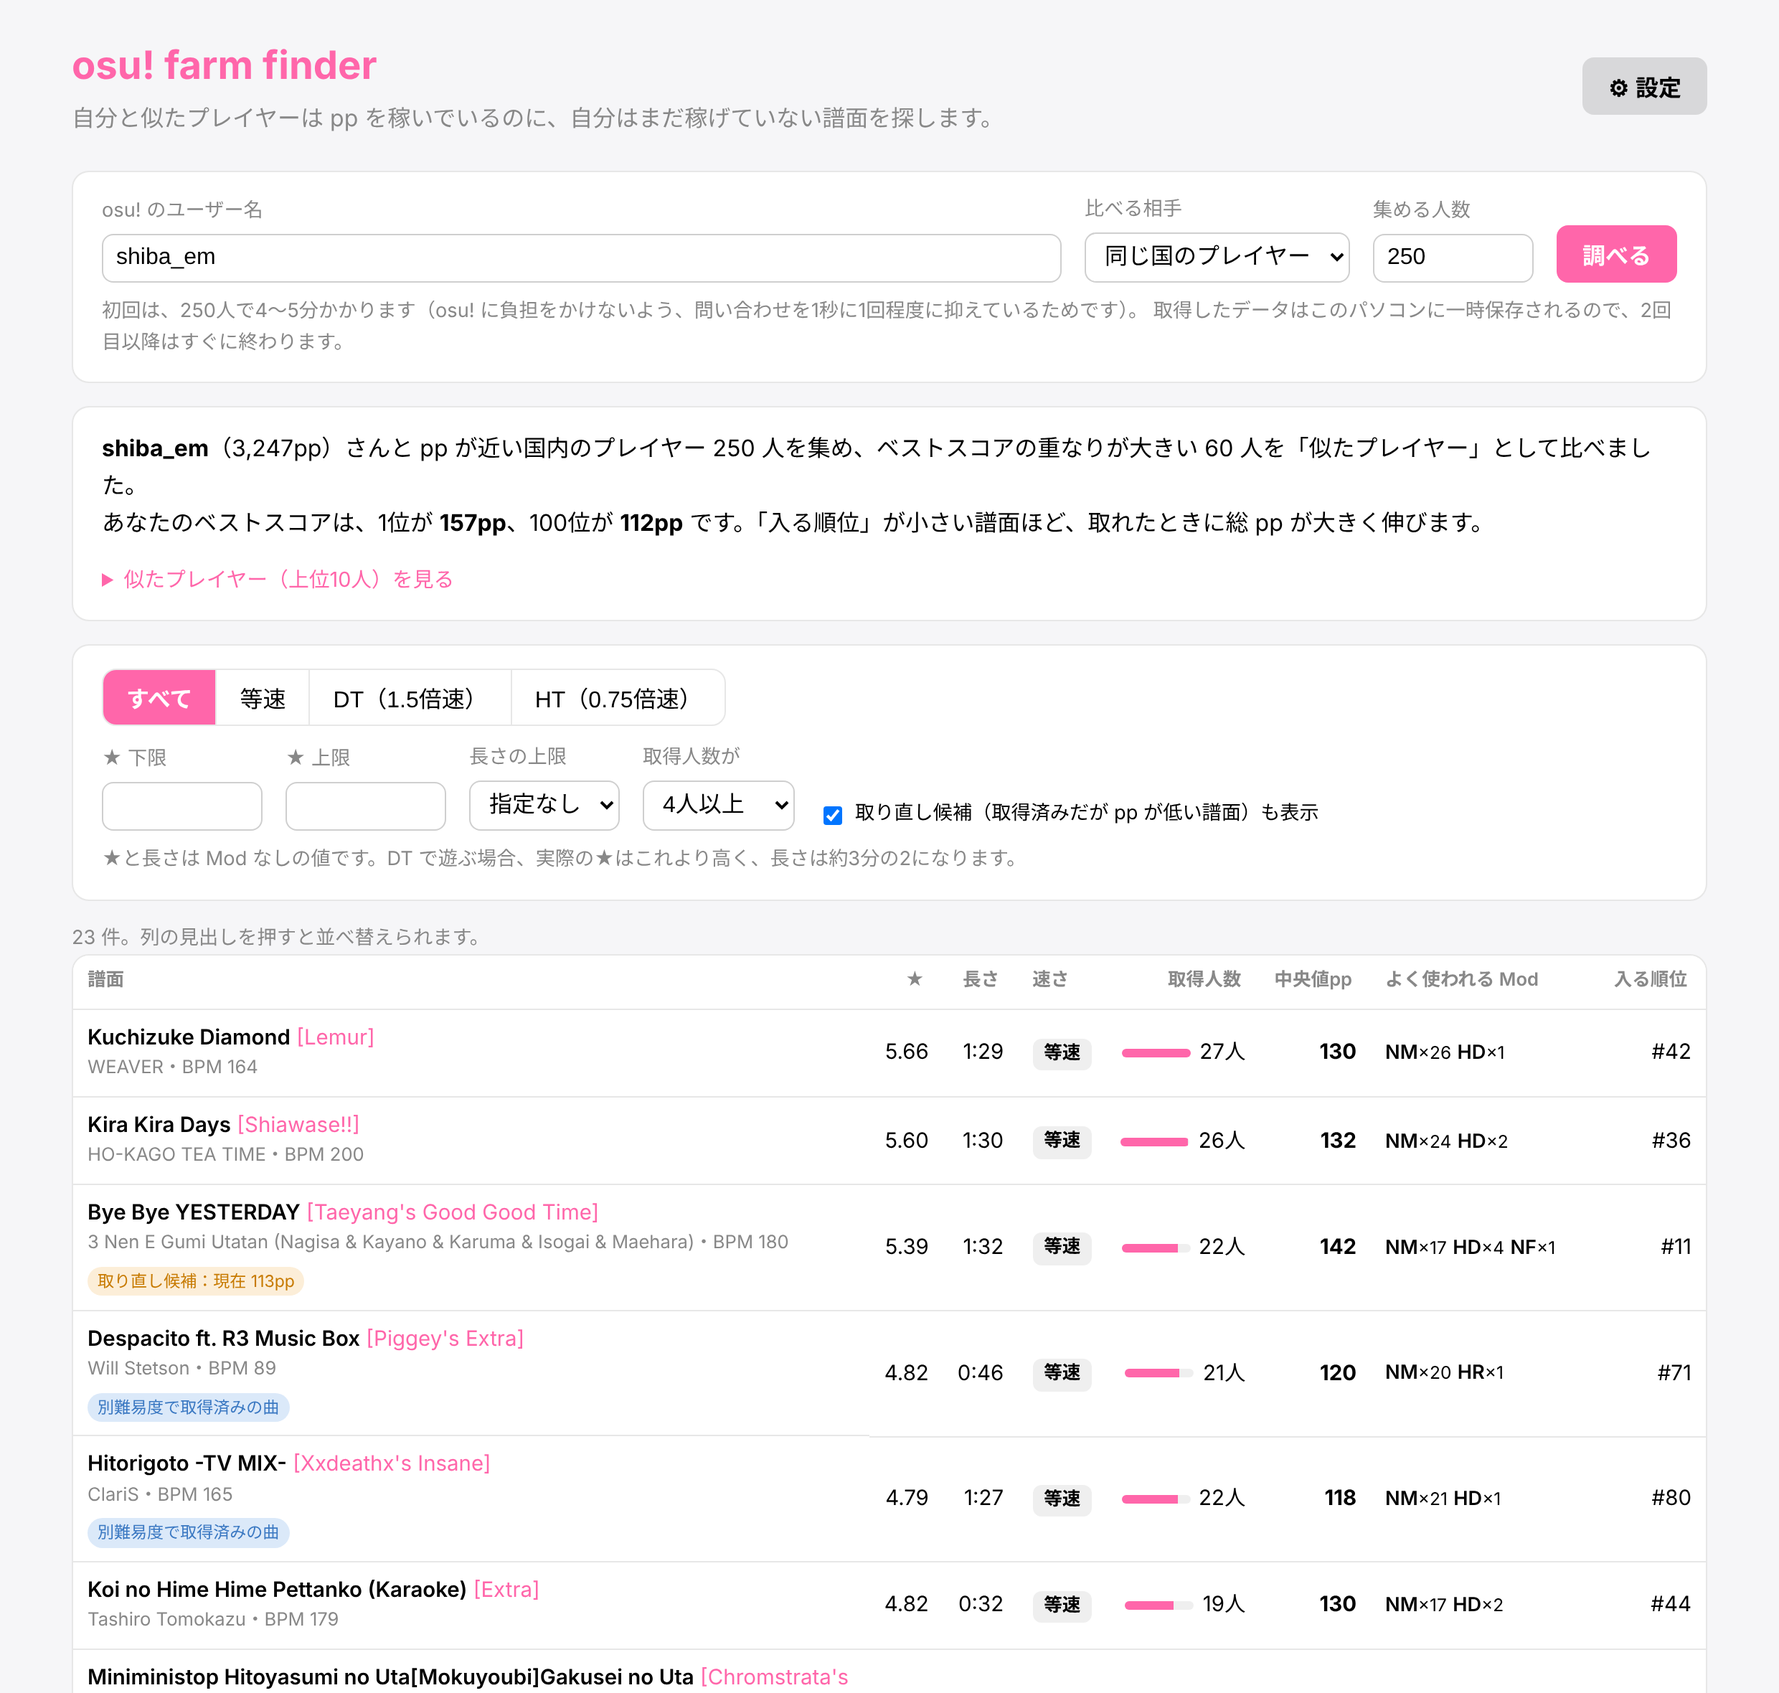
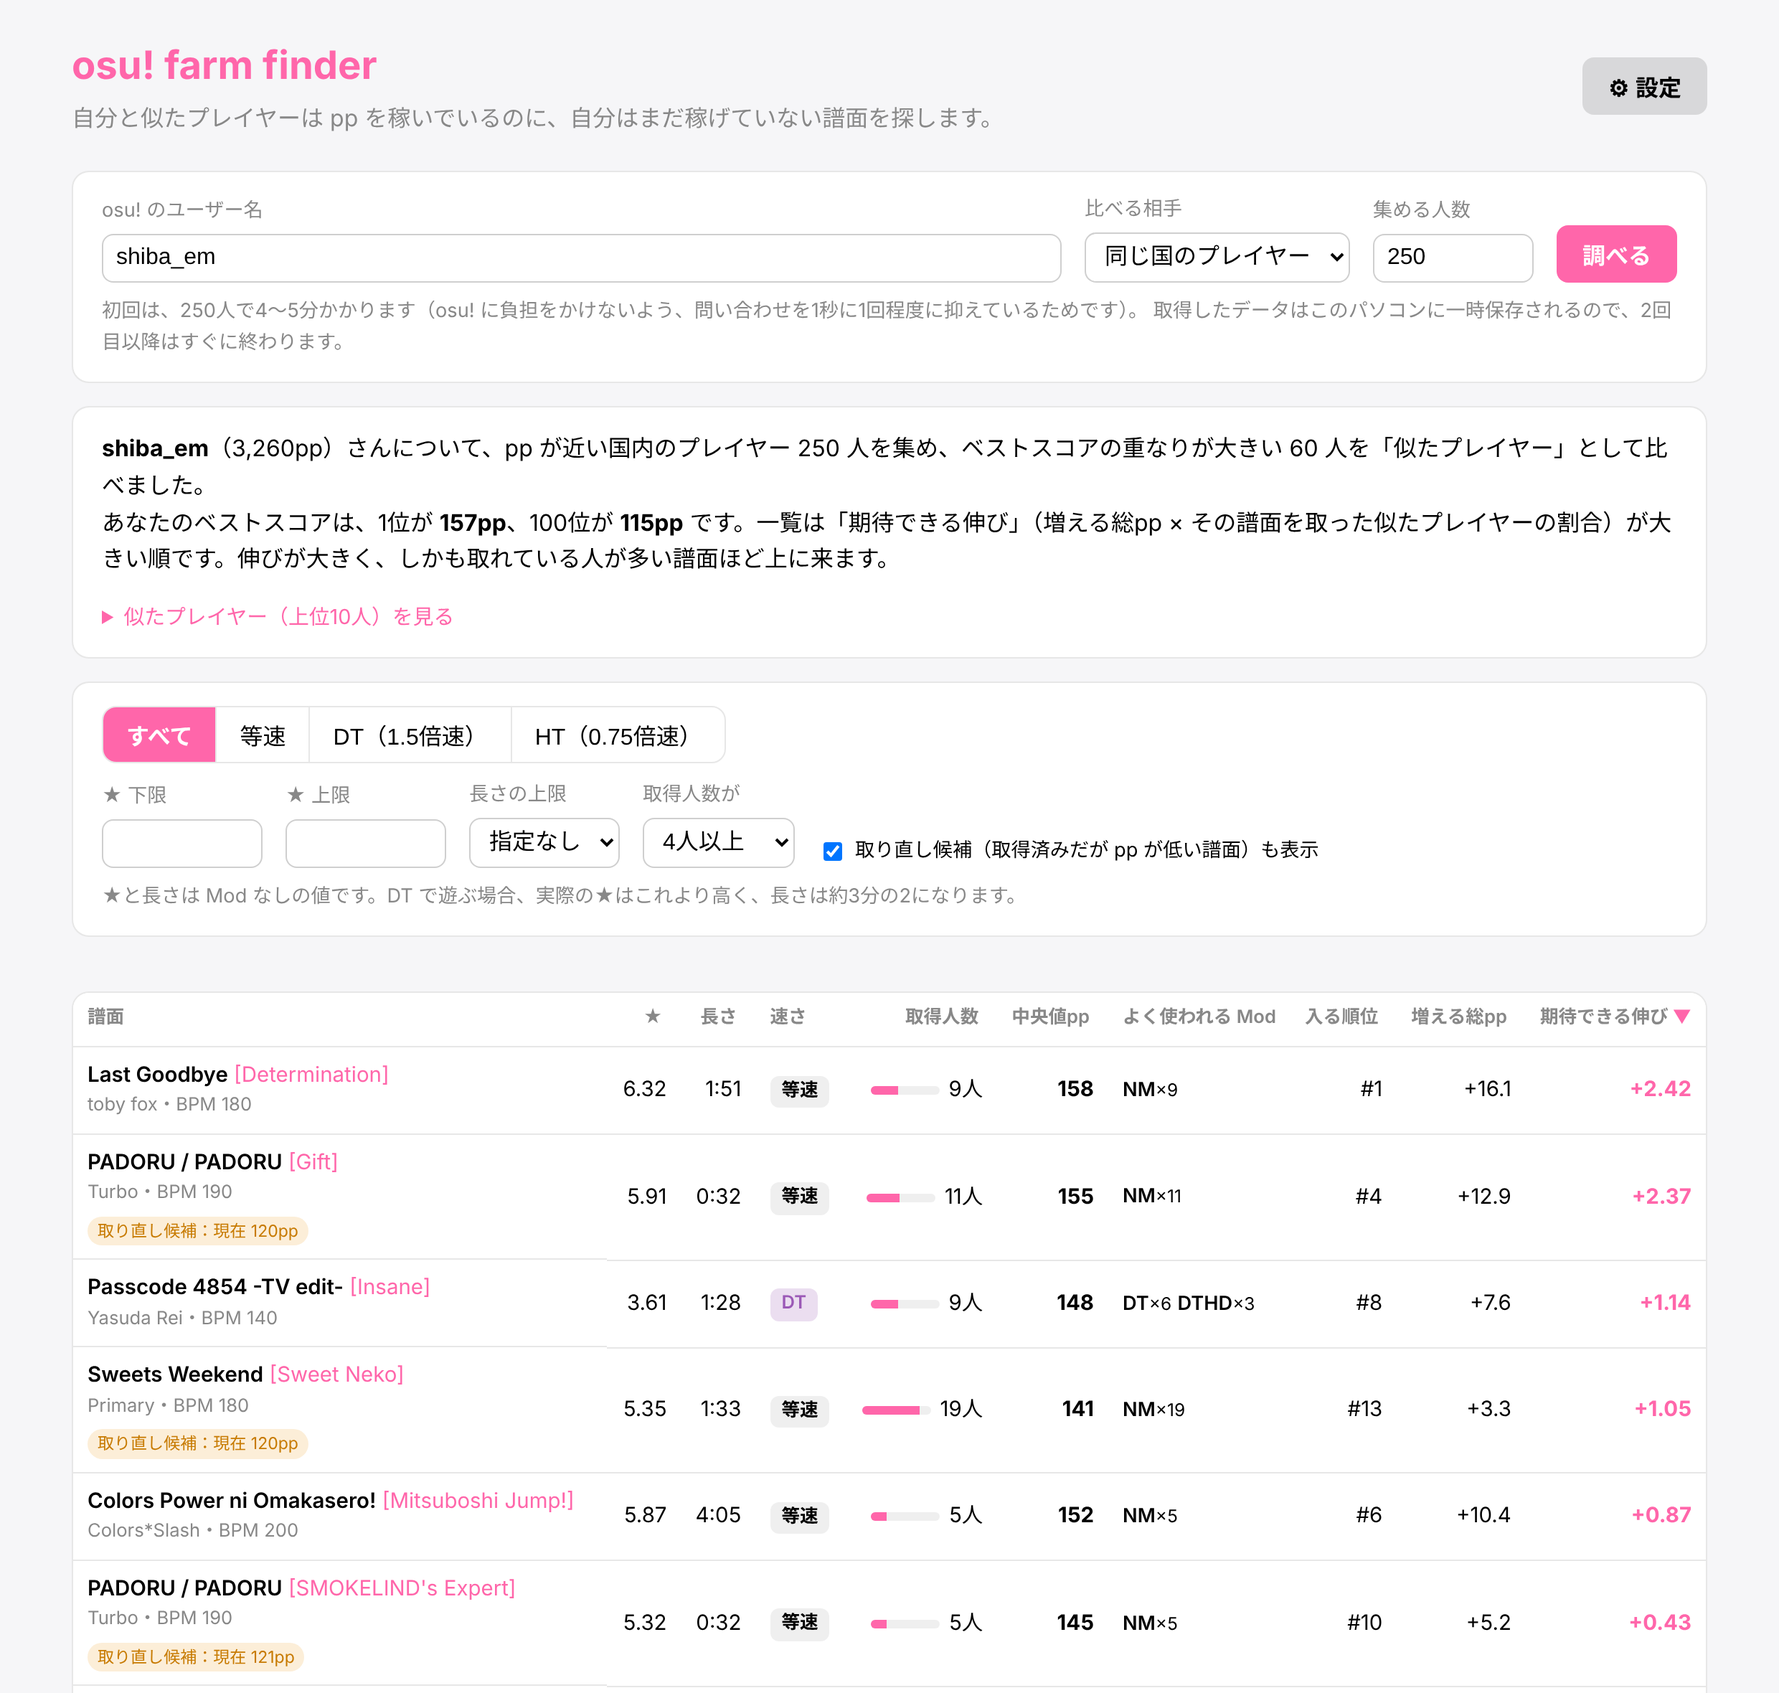
Sort by expected gain by default; refresh README screenshots (v1.3.0)
- New column "期待できる伸び" = total pp gain x share of similar players who have the map
- Server and UI order by it, so rewarding maps that many similar players got come first
  (sorting by total pp gain alone put high-star maps taken by 4-6 players on top)
- README (ja/en): column, ordering rationale, calculation step 6
- Screenshots retaken from real results with the current UI, plus an example
  for a player outside the top 10,000 (cover art hidden)

Claude-Session: https://claude.ai/code/session_012FumVQYeYHSiu8hT15C24j

diff --git a/public/app.js b/public/app.js
@@ -172,7 +172,8 @@ $('#search-form').addEventListener('submit', async (e) => {
 $('#search-cancel').addEventListener('click', () => jobId && api('DELETE', `/api/jobs/${jobId}`));
 
 // ---------- results ----------
-const filters = { speed: 'all', sort: null, sortDir: -1 };
+// Default order: the server's order (largest expected gain first).
+const filters = { speed: 'all', sort: 'expectedGain', sortDir: -1 };
 let lastResult = null;
 
 function currentQuery() {
@@ -212,7 +213,7 @@ function renderResults() {
     `<strong>${esc(r.me.username)}</strong>（${fmtPp(r.me.pp)}pp）さんについて、${where}を集め、` +
     `ベストスコアの重なりが大きい ${r.usedPlayers} 人を「似たプレイヤー」として比べました。<br>` +
     `あなたのベストスコアは、1位が <strong>${r.myTop1Pp}pp</strong>、100位が <strong>${r.myTop100Pp}pp</strong> です。` +
-    `「増える総pp」は、似たプレイヤーの中央値と同じ pp を取れた場合に、あなたの総 pp が増える量の目安です。` +
+    `一覧は「期待できる伸び」（増える総pp × その譜面を取った似たプレイヤーの割合）が大きい順です。伸びが大きく、しかも取れている人が多い譜面ほど上に来ます。` +
     note;
 
   $('#similar-list').innerHTML = r.similarPlayers
@@ -258,7 +259,8 @@ function renderResults() {
         <td class="num" title="最小 ${x.minPp}pp ～ 最大 ${x.maxPp}pp"><strong>${x.medianPp}</strong></td>
         <td>${mods}</td>
         <td class="num">#${x.rankIfAdded}</td>
-        <td class="num gain"><strong>+${x.ppGain.toFixed(1)}</strong></td>
+        <td class="num">+${x.ppGain.toFixed(1)}</td>
+        <td class="num gain"><strong>+${x.expectedGain.toFixed(2)}</strong></td>
       </tr>`;
     })
     .join('');

diff --git a/test/recommend.test.js b/test/recommend.test.js
@@ -106,3 +106,28 @@ test('rows carry ppGain, and new maps gain more than retakes of the same pp', ()
   const fresh = totalPpGain(data().myBest)(999, m400.medianPp);
   assert.ok(m400.ppGain < fresh, 'replacing my 90pp score gains less than a brand-new map');
 });
+
+test('expectedGain = ppGain × share of similar players, and rows are ordered by it', () => {
+  const r = recommend(data(), { minPlayers: 3 });
+  for (const x of r.rows) {
+    // ppGain is shown rounded to 0.1 while expectedGain uses the unrounded value, so allow that much.
+    assert.ok(Math.abs(x.expectedGain - (x.ppGain * x.players) / r.usedPlayers) <= (0.05 * x.players) / r.usedPlayers + 0.01, `${x.beatmapId}: ${x.expectedGain} vs ${x.ppGain}×${x.players}/${r.usedPlayers}`);
+  }
+  for (let i = 1; i < r.rows.length; i++) assert.ok(r.rows[i - 1].expectedGain >= r.rows[i].expectedGain);
+});
+
+test('a rewarding map taken by few players ranks below a decent map taken by many', () => {
+  // me: a few top scores; 10 similar players all share map 1 with me.
+  const myBest = [sc(1, 100), sc(2, 90), sc(3, 80)];
+  const neighbors = Array.from({ length: 10 }, (_, i) => ({
+    id: 100 + i, username: 'n' + i, pp: 1000,
+    best: [sc(1, 100), sc(50, 95)] // everyone has map 50 at 95pp
+      .concat(i < 3 ? [sc(60, 150)] : []), // only 3 players have map 60 at 150pp
+  }));
+  const r = recommend({ me: { id: 1 }, scope: 'country', myBest, neighbors }, { minPlayers: 3 });
+  const m50 = r.rows.find((x) => x.beatmapId === 50);
+  const m60 = r.rows.find((x) => x.beatmapId === 60);
+  assert.ok(m60.ppGain > m50.ppGain, 'map 60 would add more pp if you got it');
+  assert.ok(m50.expectedGain > m60.expectedGain, 'but map 50 is more likely');
+  assert.equal(r.rows[0].beatmapId, 50);
+});

diff --git a/src/recommend.js b/src/recommend.js
@@ -9,6 +9,8 @@
 //    DT/NC (1.5x) and HT (0.75x), because speed changes pp a lot.
 // 4. Drop maps you already have unless your pp there is clearly lower than theirs.
 // 5. Estimate how much your total pp would rise if you matched their median pp.
+// 6. Expected gain = that rise × the share of similar players who have the map, so maps that
+//    are both rewarding and within reach come first.
 
 export const DEFAULTS = {
   similarPlayers: 60, // how many of the most similar players to use
@@ -166,9 +168,11 @@ export function recommend(data, opts = {}) {
       sameSongInMyBest: !myMaps.has(m.beatmapId) && mySets.has(m.beatmapsetId),
       rankIfAdded: rankIfAdded(medianPp), // where the median pp would land in your top scores
       ppGain: Math.round(gainFor(m.beatmapId, medianPp) * 10) / 10, // how much your total pp would rise
+      // rise × share of similar players who have this map (a rough "how likely you can get it")
+      expectedGain: Math.round(((gainFor(m.beatmapId, medianPp) * g.players) / similar.length) * 100) / 100,
     });
   }
-  rows.sort((a, b) => b.score - a.score || b.medianPp - a.medianPp);
+  rows.sort((a, b) => b.expectedGain - a.expectedGain || b.score - a.score || b.medianPp - a.medianPp);
 
   return {
     me: data.me,

diff --git a/public/index.html b/public/index.html
@@ -114,6 +114,7 @@
               <th>よく使われる Mod</th>
               <th data-sort="rankIfAdded" class="num sortable" title="中央値と同じ pp を取れた場合に、あなたのベストスコアの何位に入るか">入る順位</th>
               <th data-sort="ppGain" class="num sortable" title="中央値と同じ pp を取れた場合に、あなたの総 pp がどれだけ増えるかの目安（ベストスコアの重み付けを反映）">増える総pp</th>
+              <th data-sort="expectedGain" class="num sortable" title="増える総pp ×（この譜面を取った似たプレイヤーの割合）。伸びの大きさと、取れそうかどうかの両方を表す目安">期待できる伸び</th>
             </tr>
           </thead>
           <tbody></tbody>

diff --git a/README.md b/README.md
@@ -126,6 +126,10 @@ osu! の API で取得できるランキングは、上位1万位までです。
 
 この場合、比べる相手はほかの国のプレイヤーになります。一覧の上の説明に、どの国から何人集めたかが表示されます。かかる時間は、通常とほぼ同じです。
 
+次の画像は、国内順位が約3万7千位（約1,100pp）のプレイヤーを調べた例です。トルコ・スペイン・韓国・ペルー・イタリアのランキングから、50人ずつ集めています。
+
+![ランキングの範囲外のプレイヤーを調べた例](docs/images/results-countries.png)
+
 ### 4. 一覧を絞り込む・並べ替える
 
 | 操作 | 内容 |
@@ -135,7 +139,7 @@ osu! の API で取得できるランキングは、上位1万位までです。
 | 「長さの上限」 | 曲の長さ（Mod なしの値）で絞り込みます。 |
 | 「取得人数が○人以上」 | 似たプレイヤーのうち何人以上が取っている譜面を出すかを変えます。人数を増やすほど、確実性の高い譜面に絞られます。 |
 | 「取り直し候補も表示」 | チェックを外すと、すでにあなたのベストスコアに入っている譜面を一覧から除きます。 |
-| 列の見出し（★・長さ・取得人数・中央値pp・入る順位・増える総pp） | 押すと、その列で並べ替えます。もう一度押すと、並び順が逆になります。 |
+| 列の見出し（★・長さ・取得人数・中央値pp・入る順位・増える総pp・期待できる伸び） | 押すと、その列で並べ替えます。もう一度押すと、並び順が逆になります。 |
 
 次の画像は、「DT（1.5倍速）」で絞り込んだ例です。
 
@@ -154,8 +158,11 @@ osu! の API で取得できるランキングは、上位1万位までです。
 | よく使われるMod | その人たちが使った Mod の組み合わせと人数です（NM は Mod なし）。 |
 | 入る順位 | 中央値と同じ pp を取れた場合に、あなたのベストスコアの何位に入るかの目安です。 |
 | 増える総pp | 中央値と同じ pp を取れた場合に、あなたの総 pp がどれだけ増えるかの目安です。計算方法は、下の「計算の方法」の5を参照してください。「入る順位」が同じでも、取り直し候補では今のスコアと置き換わるため、新しい譜面より増える量が少なくなります。 |
+| 期待できる伸び | 「増える総pp」に、似たプレイヤーのうちこの譜面を取った人の割合（取得人数 ÷ 似たプレイヤーの人数）を掛けた値です。伸びの大きさと、取れそうかどうかの両方を表す目安です。 |
 
-一覧は、似たプレイヤーの中でも、よりあなたに似ている人に多く取られている譜面ほど上に来るように並べています。
+一覧は、最初は「期待できる伸び」が大きい順に並んでいます。取れたときの伸びが大きく、しかも似たプレイヤーの多くが取れている譜面ほど上に来ます。
+
+「増える総pp」だけで並べないのは、取得人数が少なく★の高い譜面が上に来やすいためです。そうした譜面は、似たプレイヤーのうち数人だけが高い pp を取れたもので、実際に取れる見込みは高くありません。伸びの大きさを優先して見たい場合は、「増える総pp」の見出しを押して並べ替えてください。
 
 #### 計算の方法
 
@@ -164,6 +171,7 @@ osu! の API で取得できるランキングは、上位1万位までです。
 3. 似たプレイヤーのベストスコアに入っている譜面を、速さ（等速・DT・HT）ごとに数えます。4人以上（絞り込みで変更可能）が取っている譜面を一覧に出します。
 4. すでにあなたのベストスコアに入っている譜面は、あなたの pp が似たプレイヤーの中央値の85%未満の場合だけ、「取り直し候補」として残します。
 5. 「増える総pp」は、osu! の総 pp と同じ考え方で計算します。osu! の総 pp は、ベストスコアを pp の高い順に並べ、1位はそのまま、2位は0.95倍、3位は0.95×0.95倍…と、順位が1つ下がるごとに0.95倍した値を合計したものです。中央値と同じ pp のスコアをベストスコアに加えた場合と、加えない場合の合計の差を表示します。osu! では1つの譜面につき最も高いスコアだけが数えられるため、すでにその譜面のスコアがある場合は、新しいスコアで置き換えて計算します。プレイした譜面の数に応じて加わる少量のボーナス pp は、1つのスコアを加えても変わらないため、計算に含めていません。
+6. 「期待できる伸び」は、5の「増える総pp」に、その譜面を取った似たプレイヤーの割合（取得人数 ÷ 似たプレイヤーの人数）を掛けて求めます。
 
 ### 5. 終了する
 

diff --git a/README.en.md b/README.en.md
@@ -125,6 +125,10 @@ When the player is ranked below 10,000 in the selected ranking (country or world
 
 In this case you are compared with players from other countries. The summary above the list shows which countries the players came from. It takes about as long as the normal method.
 
+Example for a player ranked about 37,000th in Japan (about 1,100pp). Players were collected 50 each from the rankings of Turkey, Spain, South Korea, Peru and Italy.
+
+![Example for a player outside the top 10,000](docs/images/results-countries.png)
+
 ### 4. Filter and sort the list
 
 | Control | What it does |
@@ -134,7 +138,7 @@ In this case you are compared with players from other countries. The summary abo
 | "長さの上限" (Max length) | Filters by song length (without mods) |
 | "取得人数が○人以上" (At least N players) | Shows only maps that at least N similar players have in their top scores. Higher values give more reliable picks. |
 | "取り直し候補も表示" (Show retry candidates) | Uncheck to hide maps that are already in your top scores |
-| Column headers (★, length, players, median pp, rank if added, total pp gain) | Click to sort; click again to reverse |
+| Column headers (★, length, players, median pp, rank if added, total pp gain, expected gain) | Click to sort; click again to reverse |
 
 Example filtered to DT (1.5× speed):
 
@@ -153,8 +157,11 @@ Example filtered to DT (1.5× speed):
 | よく使われる Mod (Common mods) | Mod combinations used and how many players used them (NM = no mod) |
 | 入る順位 (Rank if added) | Where a score with the median pp would land in your top scores |
 | 増える総pp (Total pp gain) | How much your total pp would rise with a score worth the median pp (see step 5 below). Retry candidates gain less than new maps at the same rank, because the new score replaces your current one. |
+| 期待できる伸び (Expected gain) | Total pp gain multiplied by the share of similar players who have this map (players ÷ number of similar players). It reflects both how much you would gain and how likely you are to get it. |
 
-Maps taken by players who are more similar to you are ranked higher.
+The list is first sorted by "期待できる伸び" (Expected gain), largest first: maps that would add a lot of pp and that many similar players have managed to get come first.
+
+The list is not sorted by total pp gain alone, because that puts high-star maps taken by only a few players at the top. Those are maps where only a few similar players earned high pp, so you are less likely to get them. To focus on the size of the gain, click the "増える総pp" (Total pp gain) header.
 
 #### How the recommendations are calculated
 
@@ -163,6 +170,7 @@ Maps taken by players who are more similar to you are ranked higher.
 3. Count the maps in the similar players' top scores separately for each speed (normal, DT, HT). Maps taken by at least 4 players (adjustable) are listed.
 4. Maps already in your top scores are kept as "retry candidates" only if your pp is below 85% of the similar players' median.
 5. "Total pp gain" follows how osu! calculates total pp: your top scores are sorted by pp, and the n-th score counts for its pp × 0.95^(n−1). The tool shows the difference in that sum with and without a score worth the median pp. osu! counts only your best score per map, so if you already have a score on the map, the new score replaces it. The small bonus for the number of maps played does not change when one score is added, so it is left out.
+6. "Expected gain" is the total pp gain from step 5 multiplied by the share of similar players who have the map (players ÷ number of similar players).
 
 ### 5. Stop the tool
 
